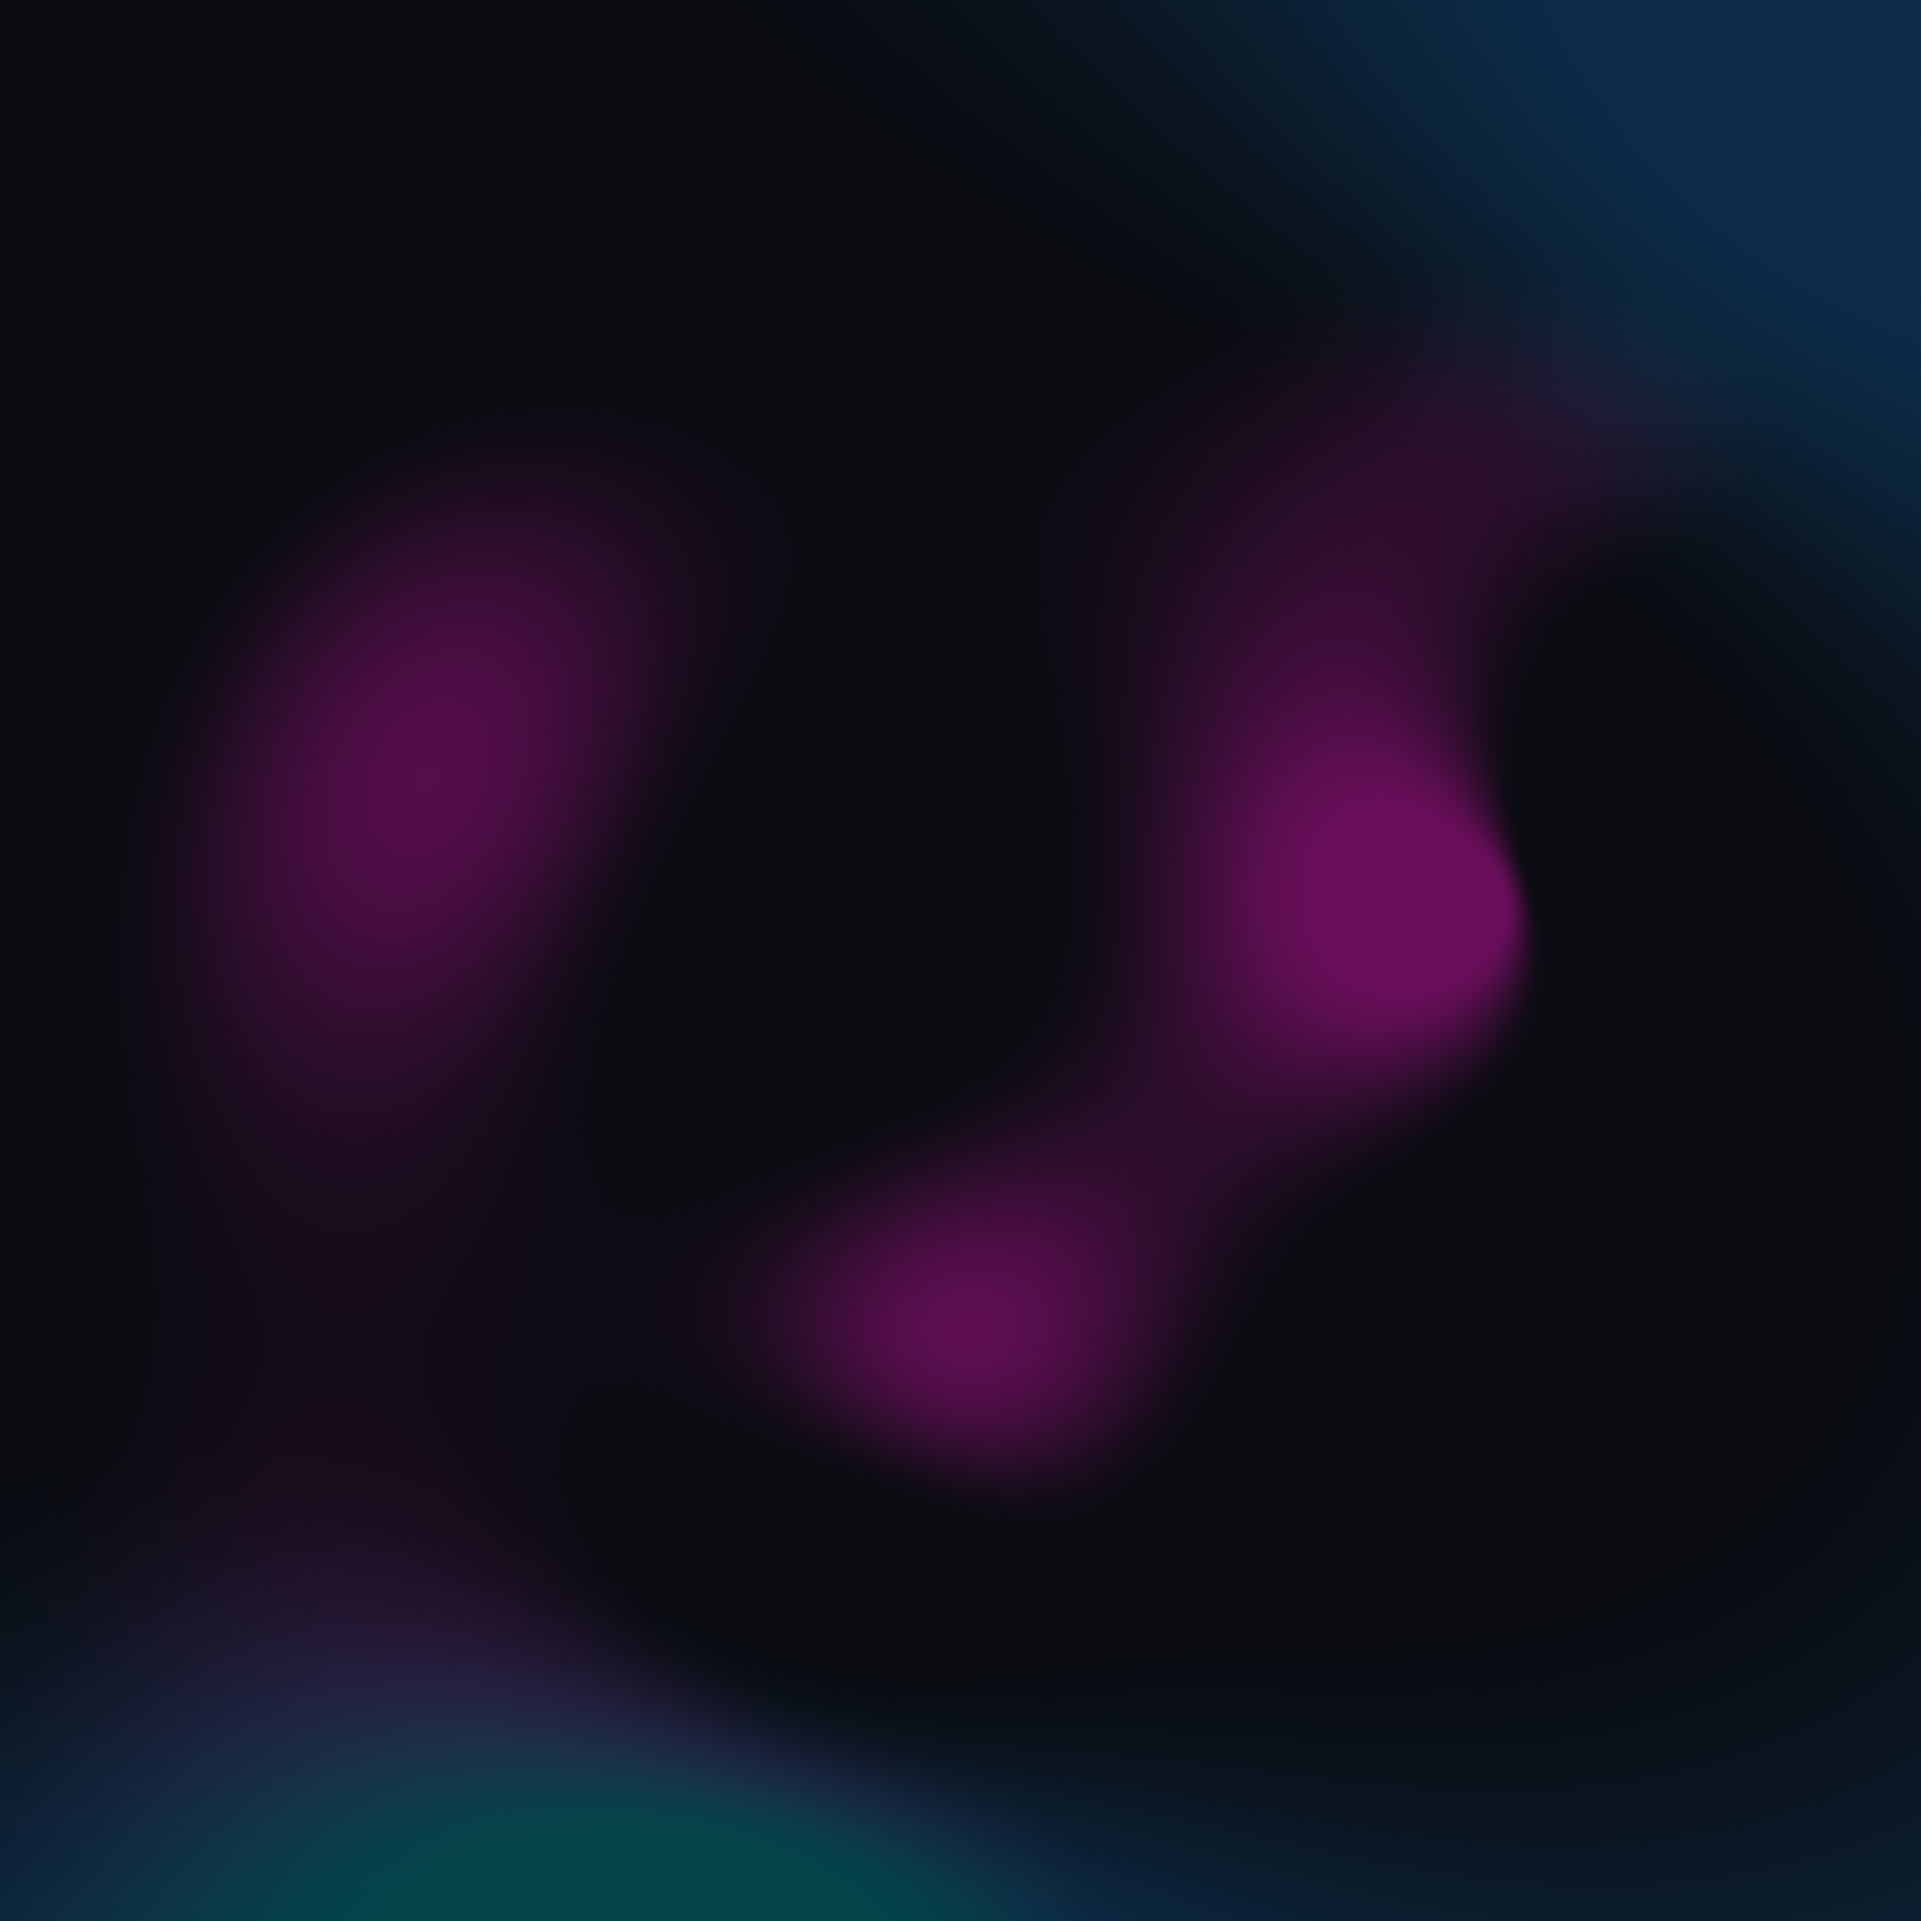
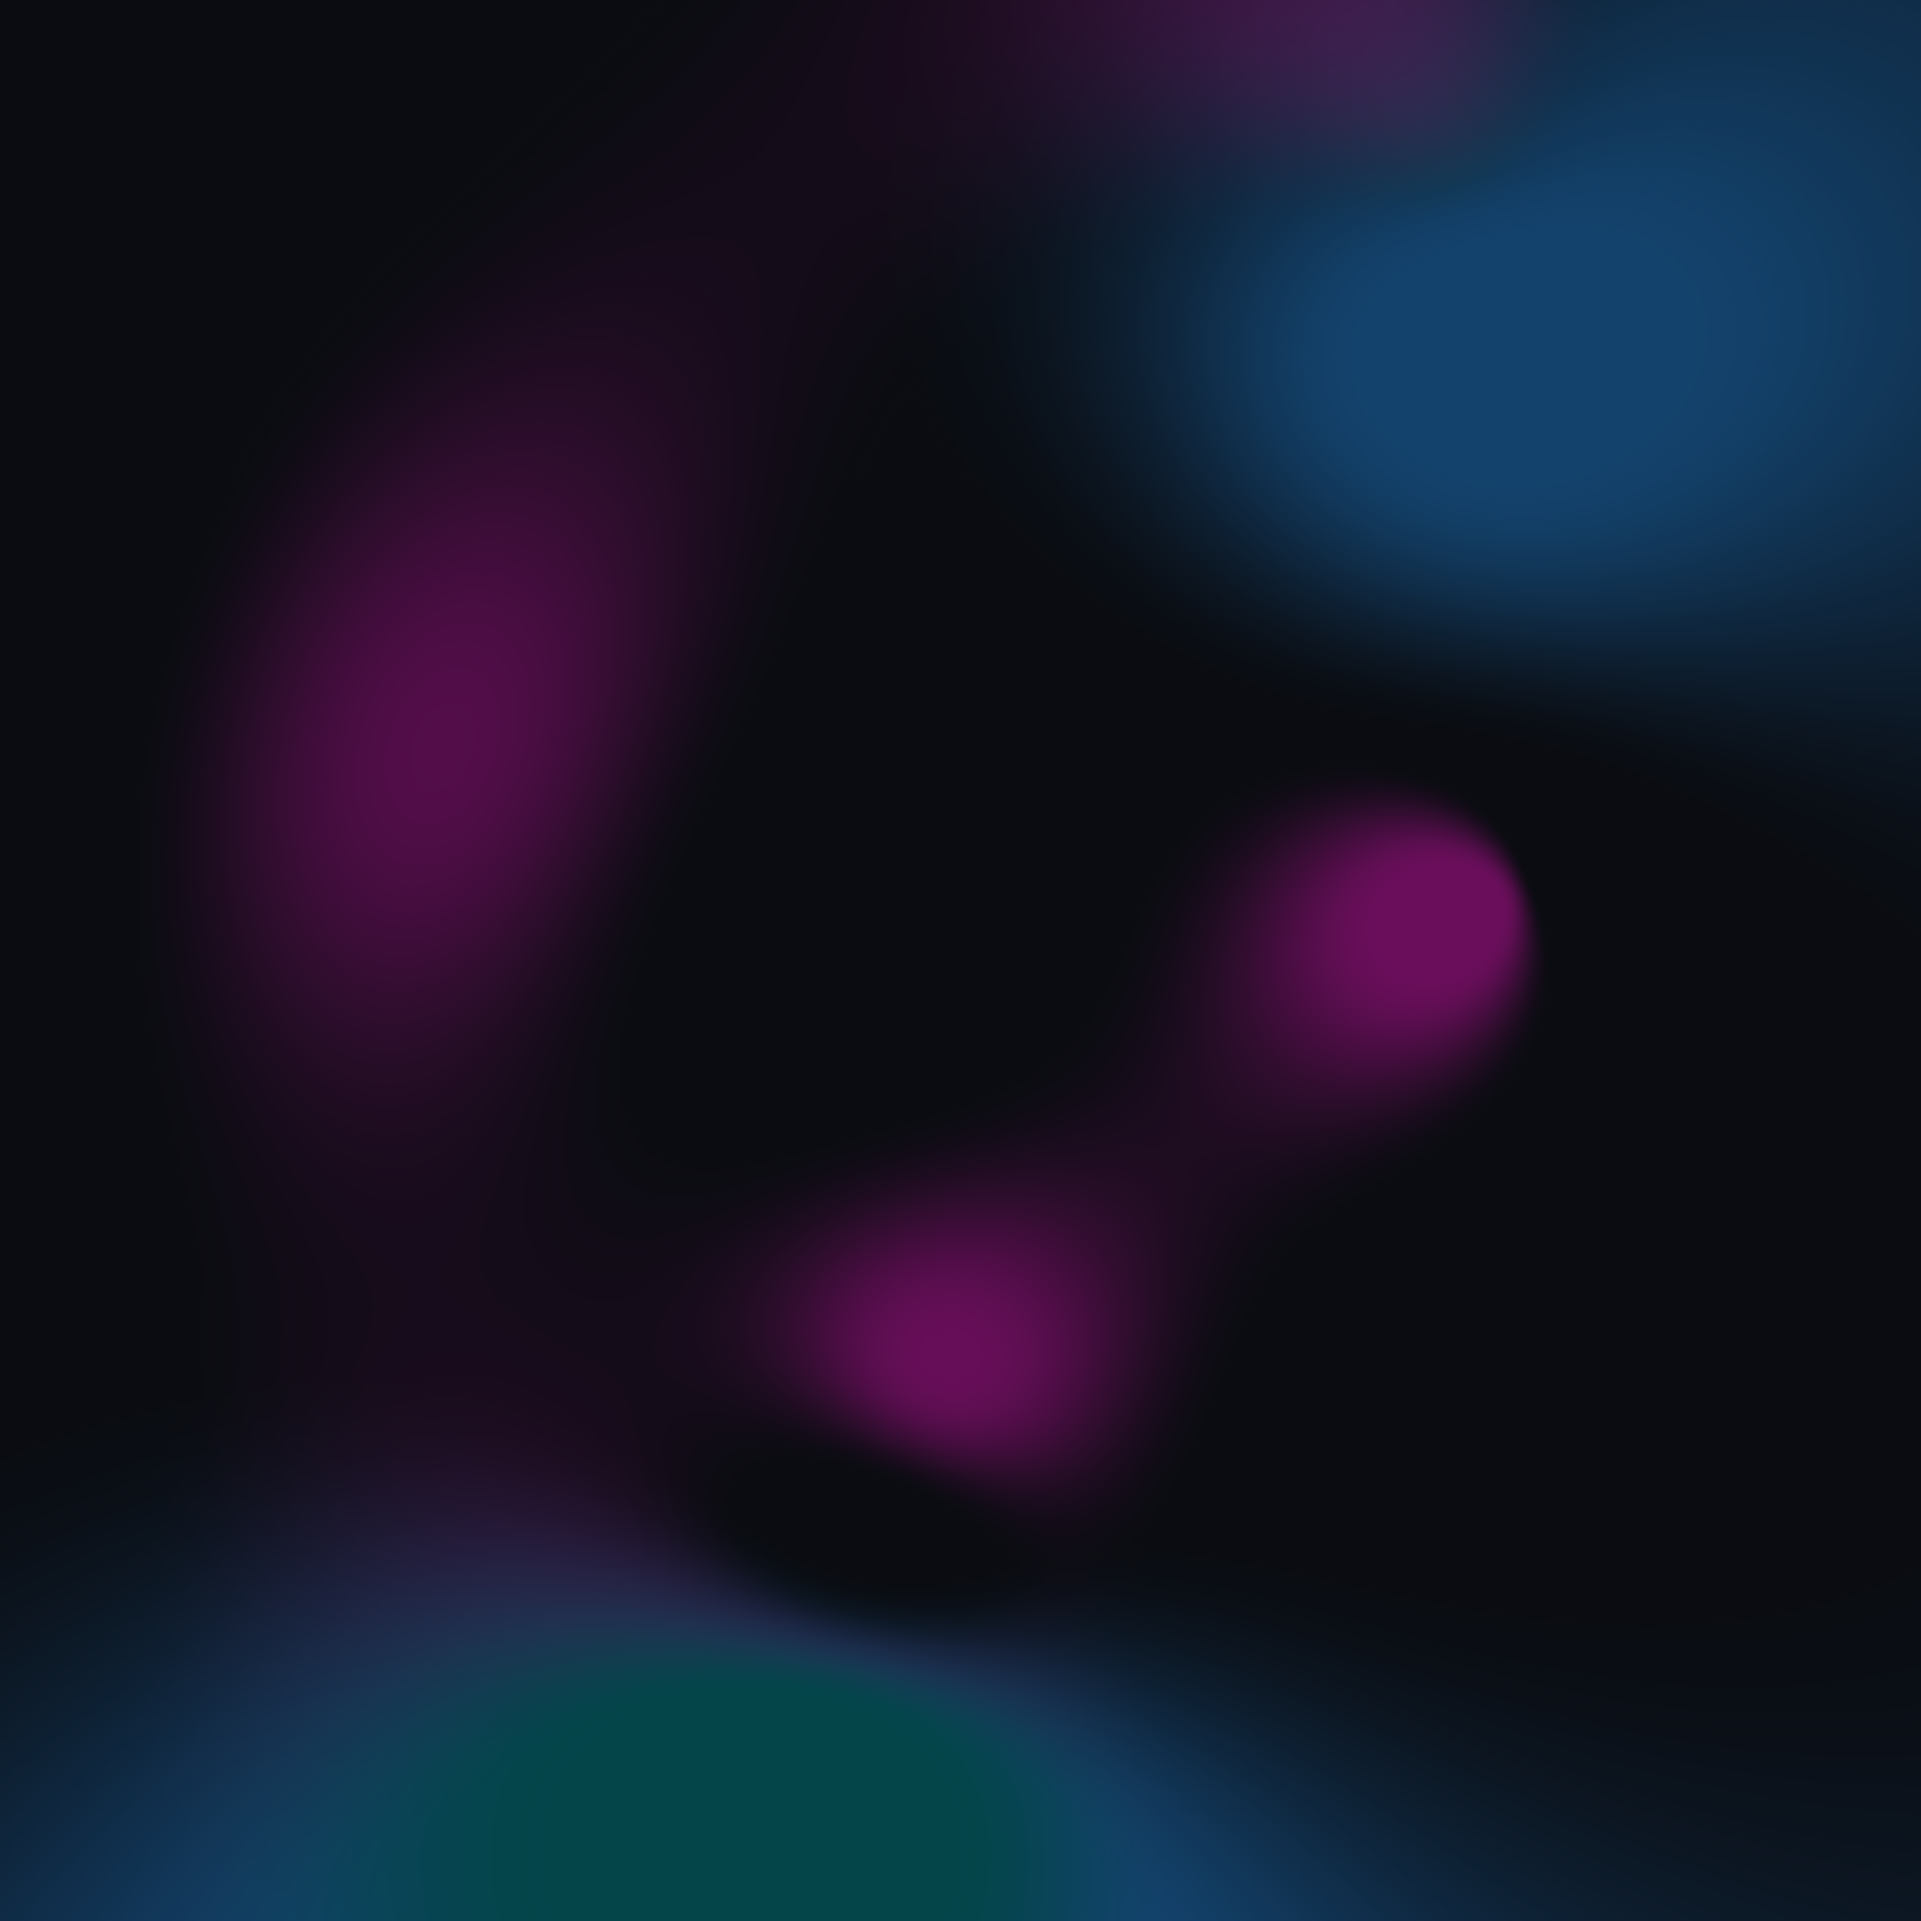
style/fix: make mesh bg fixed on mobile

Changed region(s): [[0.527, 0.0, 0.992, 0.527], [0.217, 0.775, 0.744, 1.0], [0.248, 0.186, 0.31, 0.248]]

diff --git a/app/layout.tsx b/app/layout.tsx
@@ -49,13 +49,7 @@ export default async function RootLayout({ children }: Children) {
             data-theme="next"
             lang="en"
         >
-            <body
-                className="relative isolate bg-base-300 text-sm sm:px-6 bg-cover bg-center bg-fixed"
-                style={{
-                    paddingBottom: "env(safe-area-inset-bottom)", // ios
-                    backgroundImage: "url('/mesh-gradient.webp')",
-                }}
-            >
+            <body className="relative bg-base-300/60 text-sm sm:px-6">
                 <RootProvider>
                     {/*@ts-expect-error Async Component*/}
                     <Navbar logo={logoMain} />

diff --git a/app/globals.css b/app/globals.css
@@ -21,7 +21,8 @@
         @apply rounded-xl;
     }
 
-    .menu a, .menu li {
+    .menu a,
+    .menu li {
         @apply !rounded-xl;
     }
 
@@ -36,4 +37,21 @@ body {
     display: grid;
     grid-template-rows: auto auto 1fr auto;
     grid-template-columns: repeat(1, minmax(0, 1fr));
+
+    padding-bottom: env(safe-area-inset-bottom); /* ios */
+}
+
+body::before {
+    content: "";
+    display: block;
+    position: fixed;
+    top: 0;
+    left: 0;
+    width: 100%;
+    height: 100%;
+    background-image: url("/mesh-gradient.webp");
+    background-position: center;
+    background-repeat: no-repeat;
+    background-size: 100% 100%;
+    z-index: -1;
 }
